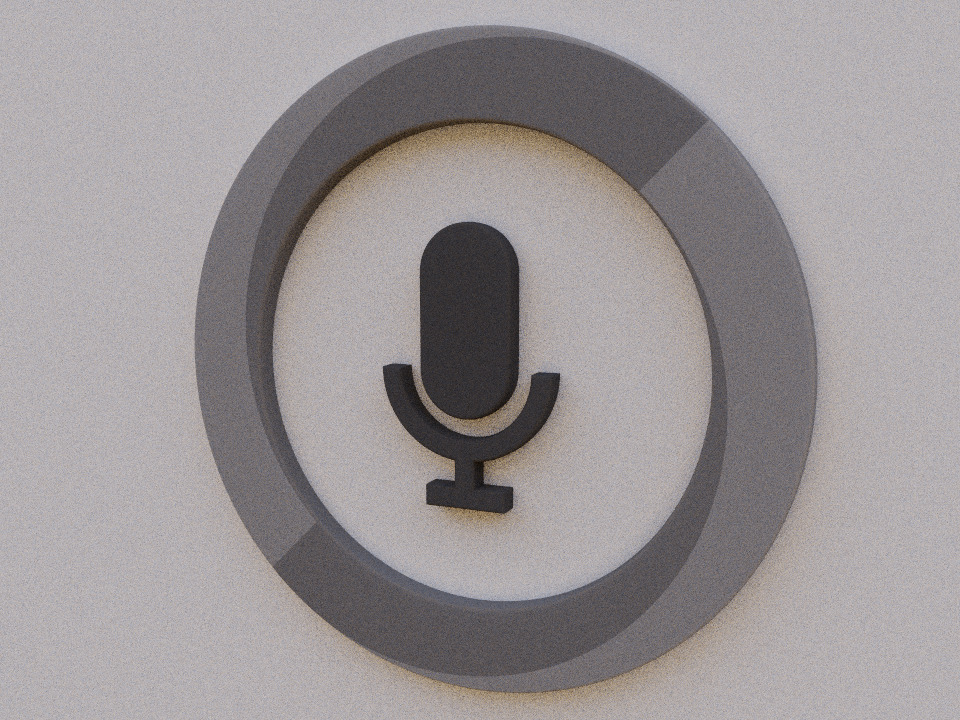
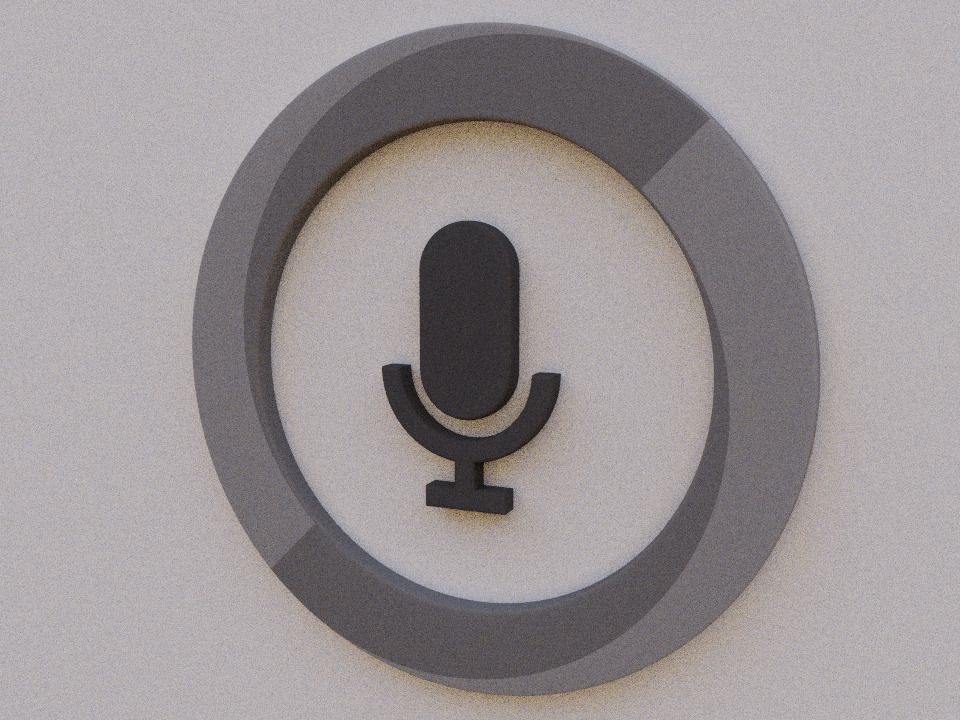
shorten

diff --git a/houndify.cpp b/houndify.cpp
@@ -11,9 +11,9 @@ sqrt(v*v-0);}V Z(V v)R v*(1/L(v));}V M(V p){V q=p;q.z=0;F l=L(q),f=I(I(I(L({p.x,
 p.y+I(0,-I(p.y,18))})-9,-I(2-A(l-15),-p.y)),-I(2-A(p.x),5-A(p.y+20))),-I(8-A(p.x
 ),2-A(p.y+24))),g=A(l-53)-8.1,m=g<f?f=g,L(q*2+(p.x>p.y?11:-11))>107:-1;f=L({I(f,
 -1)-f,I(-p.z,4)+p.z})-1;g=I(-p.z,p.z+250);R{I(g,f),g<f?8:m+2};}}int main(){V b=Z
-({-3,-1,7}),l=Z({b.z,0,-b.x})*.001,u(b.y*l.z-b.z*l.y,b.z*l.x-b.x*l.z,b.x*l.y-b.y
-*l.x),c,d,m,s;for(puts("P6 960 720 255");y--;)for(x=960;x--;P(x),P(y),P(z))for(c
-=n=0;a= 9>n++;c=c+(d.z<-.8?V(9,6,3):d.y>.3?V(3,4,6):0)*a)for(o={74,26,-170},d=Z(
-b+l*(S-x+480)+u*(y-360+S)),i=4;--i;){for(s=1,j=30;--j&&s.x>E;)s=M(o=o+d*s.x);if(
-3e4>o*o-0){for(a*=s.y/9,j=6;--j&&d*d-0>.5;)d={S,S,S};m=Z(V(M(o+V(E,0)).x,M(o+V(0
-,E)).x,M(o+V(0,0,E)).x)+-s.x),d=Z(m*d-0<0?d*-1:d),o=o+m*E;}}}
+({-3,-1,7}),l=V(b.z,0,-b.x)*.001,u(b.y*l.z,b.z*l.x-b.x*l.z,-b.y*l.x),c,d,m,s;for
+(puts("P6 960 720 255");y--;)for(x=960;x--;P(x),P(y),P(z))for(c=n=0;a=99>n++;c=c
++(d.z<-.8?V(9,6,3):d.y>.3?V(3,4,6):0)*a)for(o={74,26,-170},d=Z(b+l*(S-x+480)+u*(
+y-360+S)),i=4;--i;){for(s=1,j=30;--j&&s.x>E;)s=M(o=o+d*s.x);if(3e4>o*o-0){for(j=
+6,a*=s.y/9;--j&&d*d-0>.5;)d={S,S,S};m=Z(V(M(o+V(E,0)).x,M(o+V(0,E)).x,M(o+V(0,0,
+E)).x)+-s.x),d=Z(m*d-0<0?d*-1:d),o=o+m*E;}}}

diff --git a/README.md b/README.md
@@ -16,12 +16,12 @@ sqrt(v*v-0);}V Z(V v)R v*(1/L(v));}V M(V p){V q=p;q.z=0;F l=L(q),f=I(I(I(L({p.x,
 p.y+I(0,-I(p.y,18))})-9,-I(2-A(l-15),-p.y)),-I(2-A(p.x),5-A(p.y+20))),-I(8-A(p.x
 ),2-A(p.y+24))),g=A(l-53)-8.1,m=g<f?f=g,L(q*2+(p.x>p.y?11:-11))>107:-1;f=L({I(f,
 -1)-f,I(-p.z,4)+p.z})-1;g=I(-p.z,p.z+250);R{I(g,f),g<f?8:m+2};}}int main(){V b=Z
-({-3,-1,7}),l=Z({b.z,0,-b.x})*.001,u(b.y*l.z-b.z*l.y,b.z*l.x-b.x*l.z,b.x*l.y-b.y
-*l.x),c,d,m,s;for(puts("P6 960 720 255");y--;)for(x=960;x--;P(x),P(y),P(z))for(c
-=n=0;a=99>n++;c=c+(d.z<-.8?V(9,6,3):d.y>.3?V(3,4,6):0)*a)for(o={74,26,-170},d=Z(
-b+l*(S-x+480)+u*(y-360+S)),i=4;--i;){for(s=1,j=30;--j&&s.x>E;)s=M(o=o+d*s.x);if(
-3e4>o*o-0){for(a*=s.y/9,j=6;--j&&d*d-0>.5;)d={S,S,S};m=Z(V(M(o+V(E,0)).x,M(o+V(0
-,E)).x,M(o+V(0,0,E)).x)+-s.x),d=Z(m*d-0<0?d*-1:d),o=o+m*E;}}}
+({-3,-1,7}),l=V(b.z,0,-b.x)*.001,u(b.y*l.z,b.z*l.x-b.x*l.z,-b.y*l.x),c,d,m,s;for
+(puts("P6 960 720 255");y--;)for(x=960;x--;P(x),P(y),P(z))for(c=n=0;a=99>n++;c=c
++(d.z<-.8?V(9,6,3):d.y>.3?V(3,4,6):0)*a)for(o={74,26,-170},d=Z(b+l*(S-x+480)+u*(
+y-360+S)),i=4;--i;){for(s=1,j=30;--j&&s.x>E;)s=M(o=o+d*s.x);if(3e4>o*o-0){for(j=
+6,a*=s.y/9;--j&&d*d-0>.5;)d={S,S,S};m=Z(V(M(o+V(E,0)).x,M(o+V(0,E)).x,M(o+V(0,0,
+E)).x)+-s.x),d=Z(m*d-0<0?d*-1:d),o=o+m*E;}}}
 ```
 
 ![houndify](houndify.jpg)
